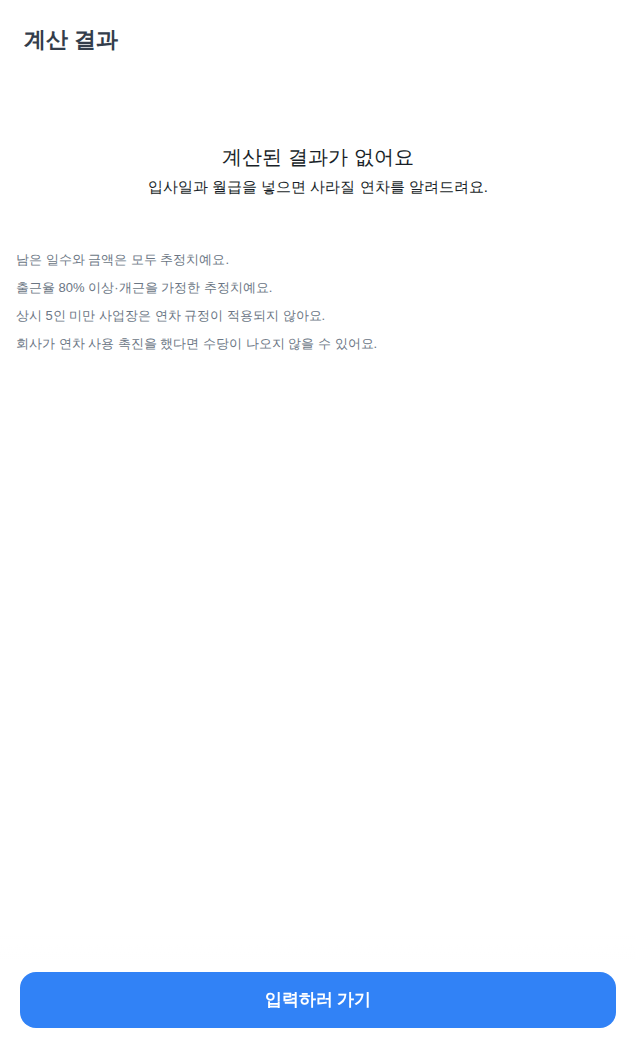
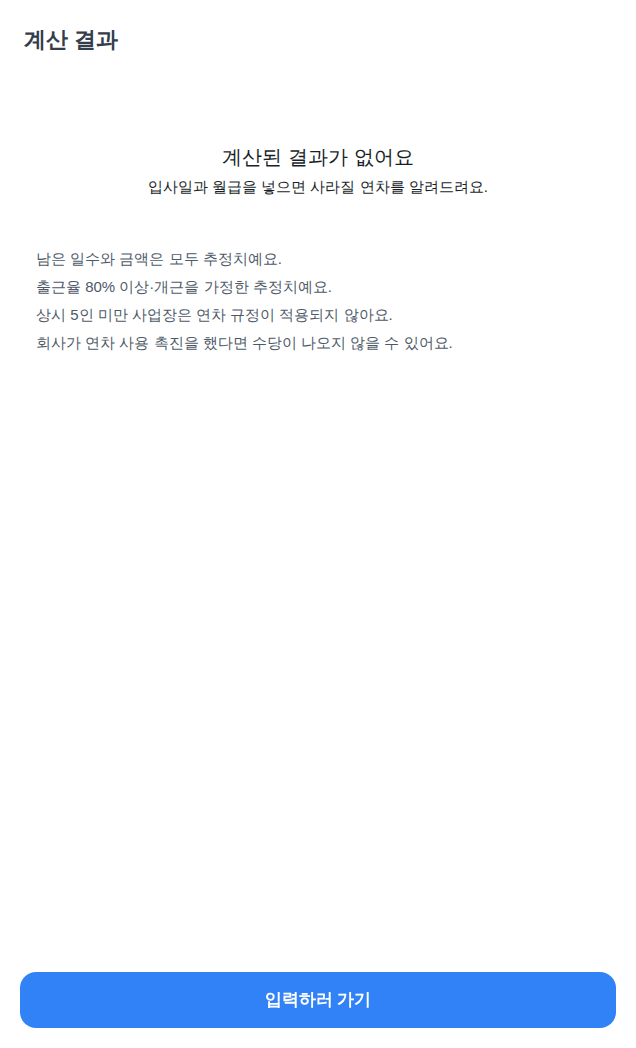
fix: visual UI improvements (round 2)

Changed region(s): [[0.0299, 0.2443, 0.717, 0.3359]]

diff --git a/src/pages/Home.tsx b/src/pages/Home.tsx
@@ -5,7 +5,6 @@ import { generateHapticFeedback } from '@apps-in-toss/web-framework';
 import { useNavigate } from 'react-router-dom';
 import { ScreenScaffold } from '../components/ScreenScaffold';
 import { SubmitFooter } from '../components/BottomCTA';
-import { EmptyState } from '../components/StateView';
 import { logClick } from '@/lib/analytics';
 import { displayHireDate, displaySalary, maskHireDate, maskSalary, maskUsedDays } from '@/lib/inputMask';
 import { loadInput, saveInput } from '@/lib/inputStore';
@@ -47,7 +46,7 @@ function scrollToCenter(e: FocusEvent<HTMLInputElement>) {
 
 export default function Home() {
   const navigate = useNavigate();
-  // 저장값이 없거나 손상됐으면 null → Empty State + 빈 필드
+  // 저장값이 없거나 손상됐으면 null → 빈 필드
   const [stored] = useState<AppInput | null>(() => loadInput());
   const [hireDigits, setHireDigits] = useState(() => (stored ? stored.hireDate.replace(/\D/g, '') : ''));
   const [basis, setBasis] = useState<Basis>(stored?.basis ?? 'hire');
@@ -109,17 +108,6 @@ export default function Home() {
         />
       }
     >
-      {stored === null && !hireDigits && !salaryDigits && !usedText && (
-        <>
-          <EmptyState
-            testId="home-empty"
-            title="아직 입력한 정보가 없어요"
-            description="입사일과 월급을 넣으면 연차가 사라지는 날을 알려드려요"
-          />
-          <Spacing size={8} />
-        </>
-      )}
-
       <TextField
         variant="box"
         label="입사일"

diff --git a/src/pages/Result.tsx b/src/pages/Result.tsx
@@ -98,13 +98,15 @@ function InfoRow({ label, value }: { label: string; value: string }) {
 
 function Notices() {
   return (
-    <div data-testid="result-notices" style={{ padding: '0 20px', wordBreak: 'keep-all' }}>
+    <div
+      data-testid="result-notices"
+      style={{ padding: '0 24px', wordBreak: 'keep-all', textAlign: 'center' }}
+    >
       {NOTICES.map((line) => (
-        <div key={line}>
+        <div key={line} style={{ paddingBottom: 8 }}>
           <Paragraph.Text typography="t6" color="var(--adaptiveGrey700)">
             {line}
           </Paragraph.Text>
-          <Spacing size={4} />
         </div>
       ))}
     </div>
